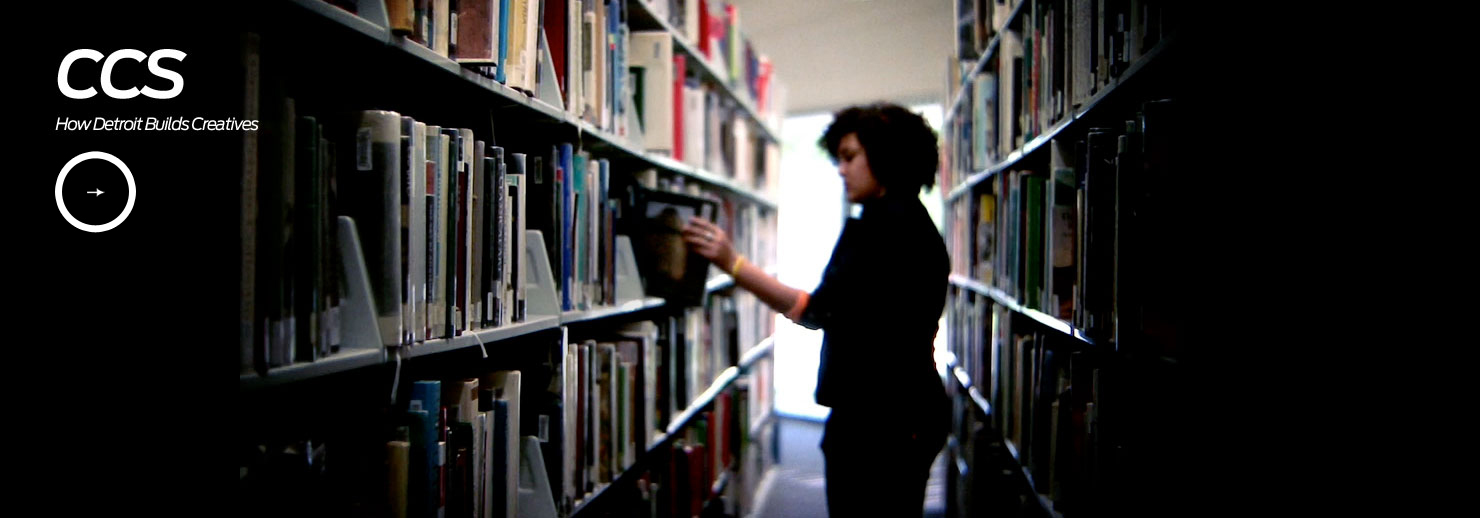
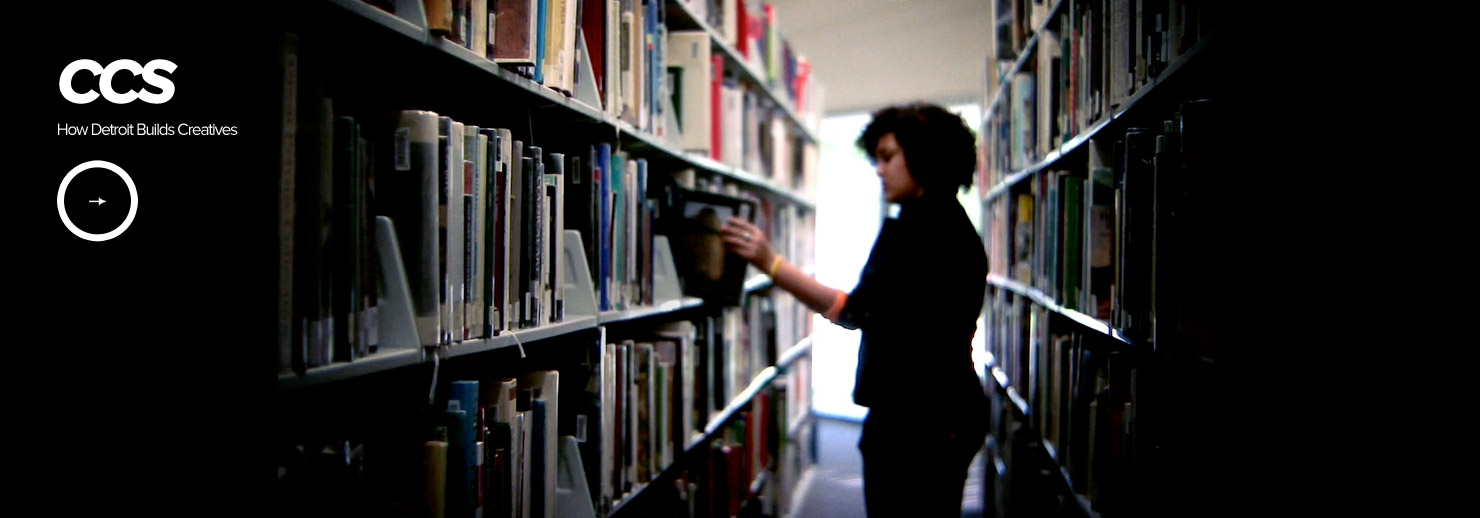
.

diff --git a/index.php b/index.php
@@ -77,10 +77,10 @@
 					<div class="flexslider">
 				    <ul class="slides">
 				    	<li>
-				    		<img src="_/img/home/billboard_1.png" />
+				    		<img src="_/img/home/billboard.png" />
 				    	</li>
 				    	<li>
-				    		<img src="_/img/home/billboard.png" />
+				    		<img src="_/img/home/billboard-focus_doug.png" />
 				    	</li>
 						<li>
 				    		<img src="_/img/home/billboard-FocusRally.jpg" />
